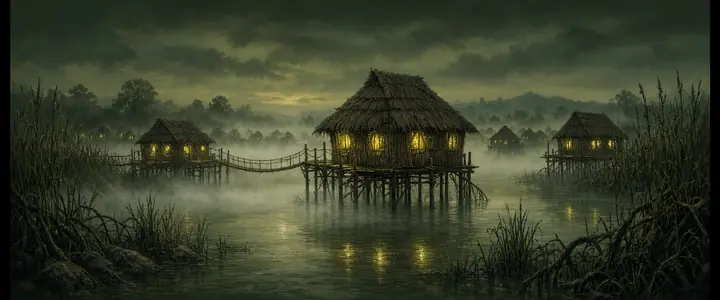
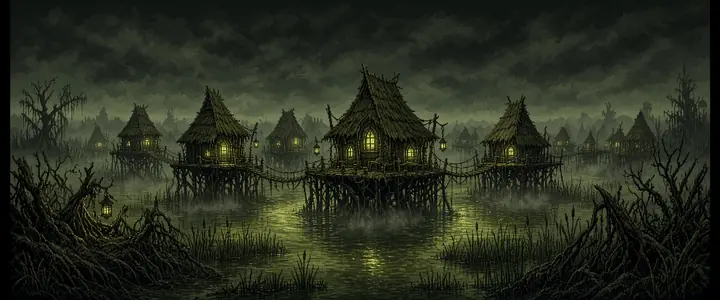
art: switch to dark-fantasy pixel style; Tier 0 backdrops redone (Grok Imagine)
Tim's ruling: dungeon-crawler RPG, lightly pixellated. New style lock in docs/ART.md section 3,
amendment to D-124, Tier 0 WebPs replaced with the pixel picks.

Claude-Session: https://claude.ai/code/session_01G1ieR1Ws58B4uBMQBCqvG7

diff --git a/docs/ART.md b/docs/ART.md
@@ -37,7 +37,7 @@ Candidates go in `Documents\Aethelgard Art\candidates\`.
 - **No people, no text.** Characters, the Tyrant and creatures are drawn by the game; a painted figure would clash. Screen out
   any image with figures, lettering, signatures or watermarks.
 - **Overlays sit on top.** The game darkens the top and bottom 15% slightly for legibility, tints by time of day, and adds
-  particles. Paintings should be rich but not busy; a calm sky band helps.
+  particles. Backdrops should be rich but not busy; a calm sky band helps.
 - **Accent colour.** Each region has one glowing accent (§4). It should appear in every painting of that region, and nowhere else.
 - **Convert** with Pillow (`pip install pillow`): crop → resize with LANCZOS → `save(..., 'WEBP', quality=78, method=6)`; then
   the `@sm` copy at 720 × 300. Check sizes against the table.
@@ -46,10 +46,14 @@ Candidates go in `Documents\Aethelgard Art\candidates\`.
 
 ## 3. The style lock (paste word for word at the end of every prompt)
 
-> Atmospheric fantasy matte painting, painterly digital brushwork with soft edges, cinematic wide panoramic establishing shot at
-> eye level, the main subject in the middle horizontal band of the frame, deep layered depth from foreground to far horizon, moody
-> low-key light with one luminous accent colour, muted and slightly desaturated palette, still and quiet, an empty landscape with
-> only the place itself.
+**Changed 2026-10-25 by Tim's ruling: dark-fantasy dungeon-crawler RPG, lightly pixellated.** The original painterly
+matte-painting lock was tested in round a and replaced; a "grim gothic but painted" lock (round b) and pixellating paintings in
+post (muddy, rejected) were also tried. Asking Grok for pixel art directly gave crisp hand-placed pixels at a light, fine grain.
+
+> Detailed dark fantasy pixel art background for a dungeon crawler RPG, visible pixels with hand-placed dithered shading, grim and
+> gothic, cinematic wide panoramic view at eye level, the main subject in the middle horizontal band of the frame, layered depth to
+> a far horizon, heavy shadows with one luminous accent colour, muted desaturated palette with deep blacks, still and empty, only
+> the place itself.
 
 **Prompt = subject line (§5) + region light line (§4) + style lock.** 60–110 words in all. Grok ignores negatives — describe what
 you want, never "no X".
@@ -270,11 +274,13 @@ current location's exits only.
 
 Grok terms checked: 2026-10-24 — xAI's consumer FAQ (https://x.ai/legal/faq) says the user owns Grok's outputs and may use them, including commercially; xAI *asks* (does not require) that generated work be attributed to Grok. Suggest a credits line: "Scene backdrops made with Grok Imagine."
 
-Session settings: Grok Imagine, Image, Quality 2.0, ×4, aspect **21:9** (widest offered; 2128 × 912, trims to 12:5 with a sliver off top and bottom). The §3 style lock worked unchanged on round a.
+Session settings: Grok Imagine, Image, Quality 2.0, ×4, aspect **21:9** (widest offered; 2128 × 912, trims to 12:5 with a sliver off top and bottom). Round a used the original painterly lock; round p (2026-10-25) is the pixel lock now in §3. **Submit one prompt at a time and wait for its 4 images:** sending the next prompt while one is generating cancels the earlier one. Downloads land in `Downloads\\`; the session files them into `candidates\\`.
+
+Conversion note: Grok's pixel art is ~3 screen px per art pixel at 2128 wide, so the LANCZOS resize to 1440 keeps a light, even pixel grain; no nearest-neighbour step is needed.
 
 | id | file | round / pick | crop offset | notes |
 |---|---|---|---|---|
-| `loc_whispering_ruins` | `scenes/loc_whispering_ruins.webp` (+`@sm`) | a / A2 | 0 | Crystal trees both sides, arch and tablets inside the phone centre. |
-| `loc_emberforge` | `scenes/loc_emberforge.webp` (+`@sm`) | a / B3 | 0 | Hearth and anvil centred; left third is calm grey sky. |
-| `loc_lanternreed` | `scenes/loc_lanternreed.webp` (+`@sm`) | a / C2 | 0 | Big hut, rope walkways, reflected lantern light. |
-| `loc_still_shore` | `scenes/loc_still_shore.webp` (+`@sm`) | a / D2 | 0 | Midtones lifted (gamma 1.25) so it survives the edge darkening. |
+| `loc_whispering_ruins` | `scenes/loc_whispering_ruins.webp` (+`@sm`) | p / A2 | 0 | Pixel lock. Arch, tablets and crystal trees inside the phone centre. |
+| `loc_emberforge` | `scenes/loc_emberforge.webp` (+`@sm`) | p / B3 | 0 | Pixel lock. Strongest hearth glow; forge sits right of centre, inside the 60%. |
+| `loc_lanternreed` | `scenes/loc_lanternreed.webp` (+`@sm`) | p / C2 | 0 | Pixel lock. Row of stilt huts, lantern windows, rope walkways. |
+| `loc_still_shore` | `scenes/loc_still_shore.webp` (+`@sm`) | p / D2 | 0 | Pixel lock. Midtones lifted (gamma 1.25). Faint far-shore spires (not in brief) kept: dim, read as distance. |

diff --git a/docs/DECISIONS.md b/docs/DECISIONS.md
@@ -2134,3 +2134,9 @@ owning unit (PLAN §9.1).
   - **U72** (Sonnet) shrinks to per-location overlay data: particles, focal glows, time-of-day per place, and the parametric
     fallback's silhouettes. Its brief is written after the test batch is approved.
   - Grok's usage terms for a public game are checked by the art session and noted in `docs/ART.md` §8.
+- **Amended 2026-10-25 (art session, Tim's ruling): the backdrop style is dark-fantasy dungeon-crawler RPG pixel art, lightly
+  pixellated** — not the painterly matte painting first specified. Grok renders the pixel art directly (crisp, fine grain);
+  pixellating paintings in post was tried and rejected as muddy. `docs/ART.md` §3 holds the new style lock; the four Tier 0
+  backdrops on `wip/art` are the pixel versions. For U71: the WebPs are ordinary 1440 × 600 / 720 × 300 images with the pixel
+  grain baked in, so no `image-rendering` change is needed. U72's overlays (particles, glows) should stay soft and sparse so
+  they sit on the pixel art without fighting it; U64's vector fallback will look smoother than its neighbours until painted.
